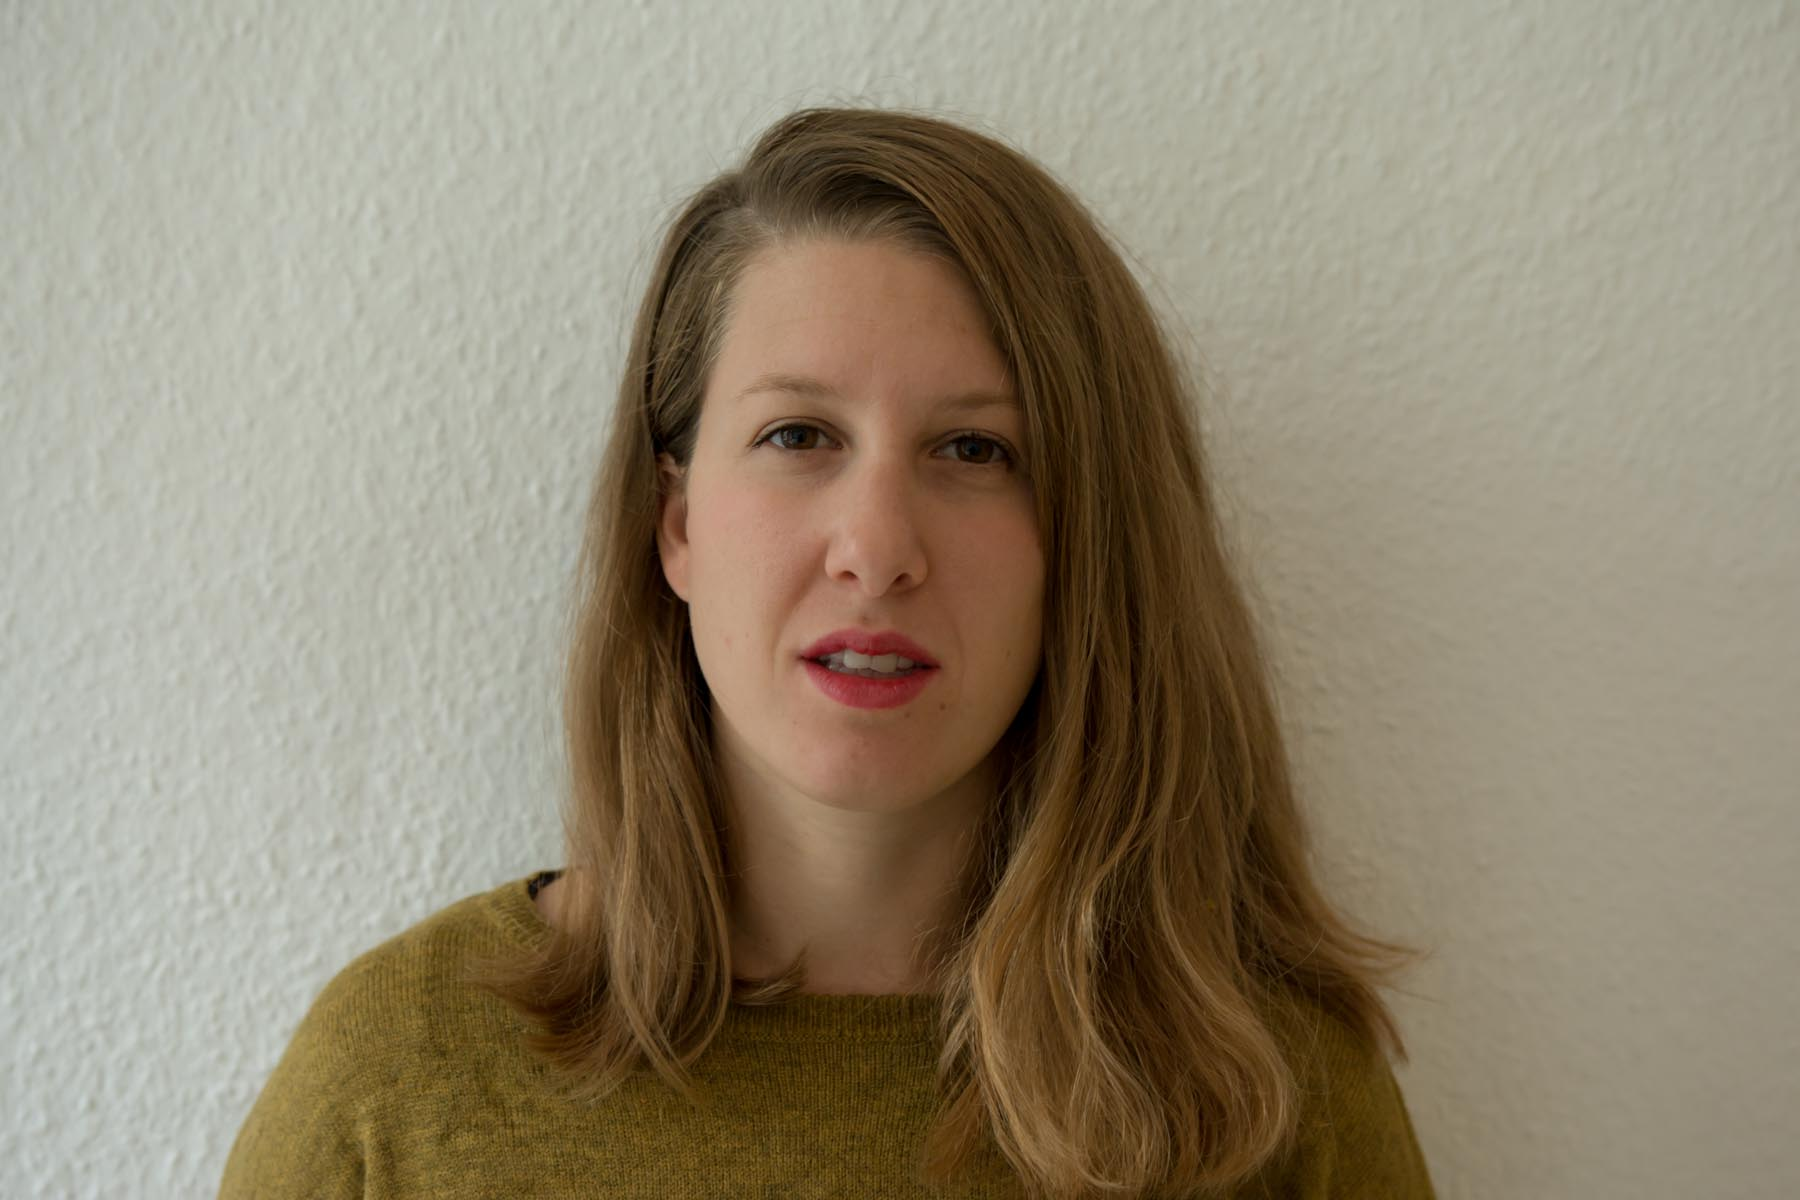
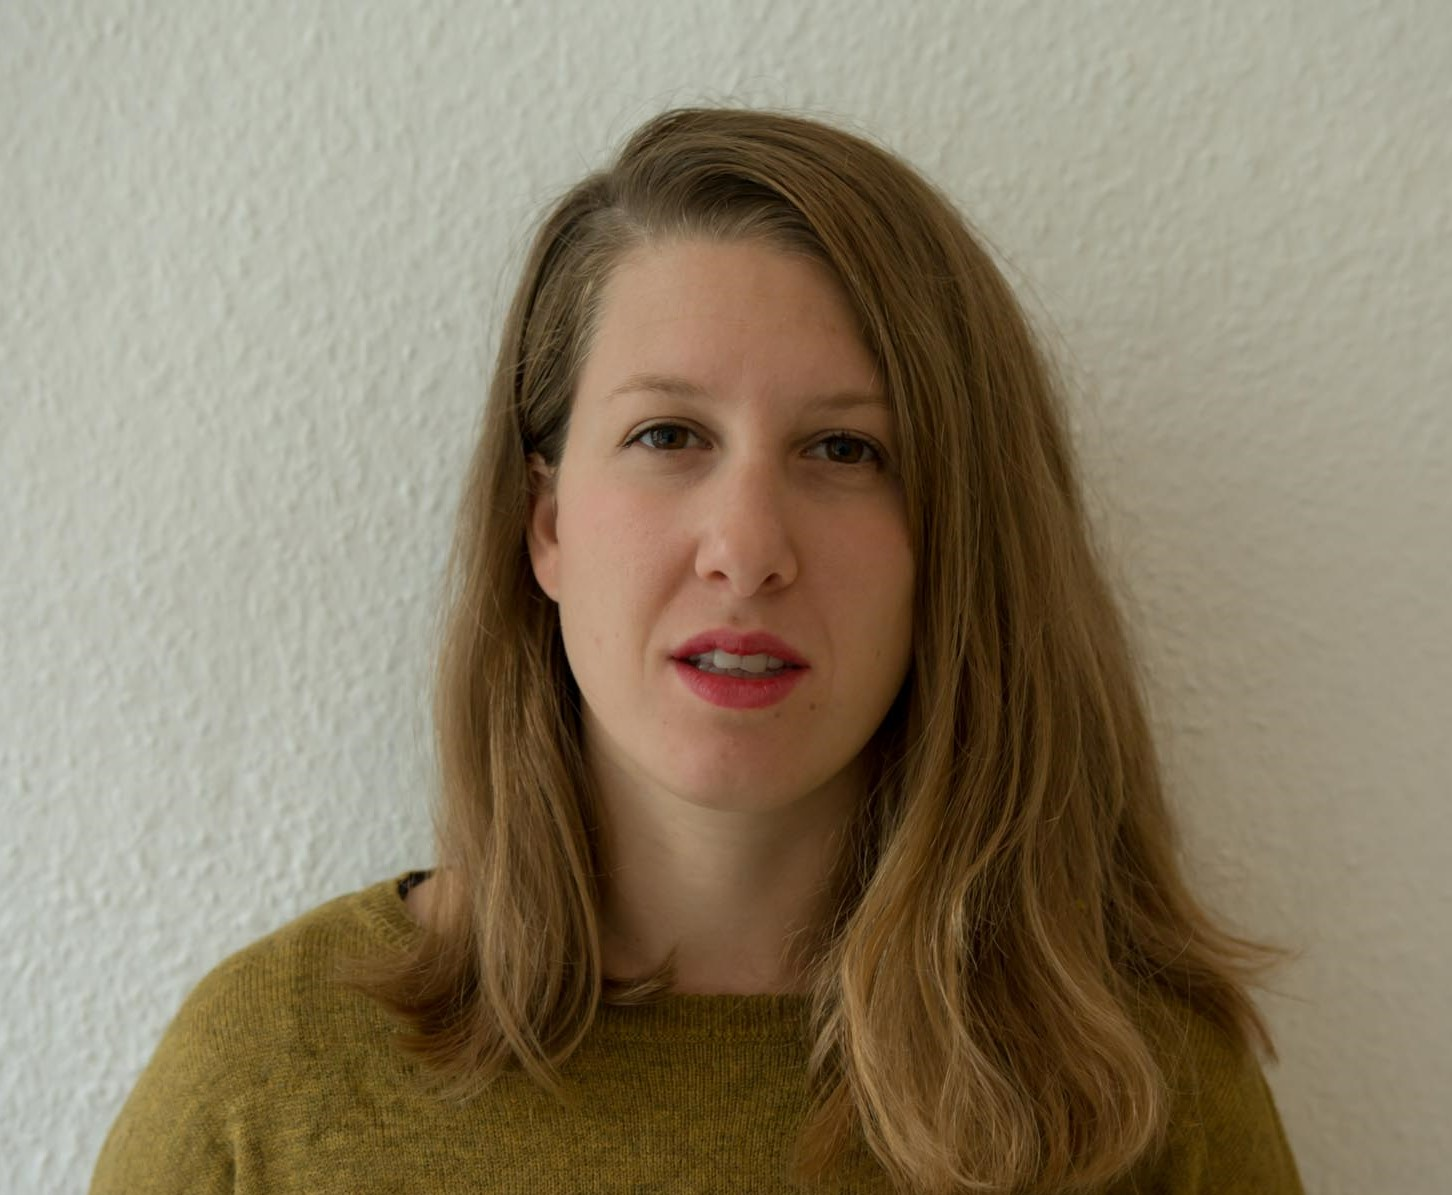
Added new About photo and dimensions

Changed region(s): [[0.031, 0.0929, 0.9298, 1.0]]

diff --git a/src/pages/About/styles.module.css b/src/pages/About/styles.module.css
@@ -34,7 +34,7 @@
 
 .about_container img {
   height: 400px;
-  width: 400px;
+  width: 600px;
 }
 
 @media (min-width: 320px) and (max-width: 480px) {
